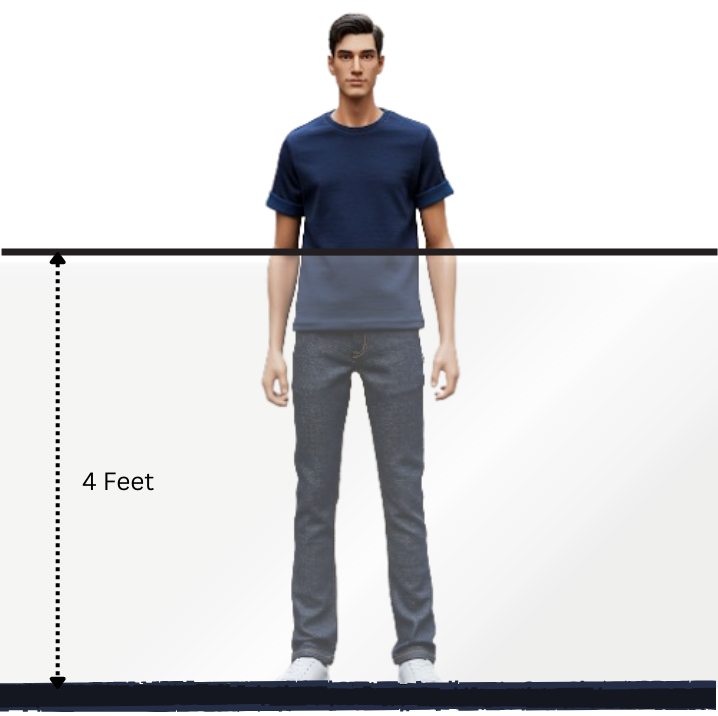
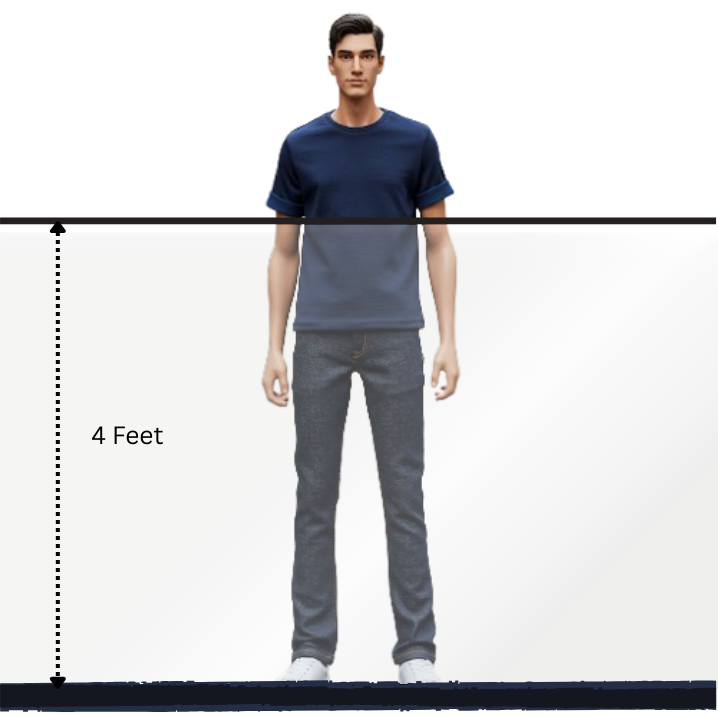
glass height fixing

Changed region(s): [[0.0, 0.2765, 1.0, 0.3994], [0.1226, 0.5838, 0.2451, 0.7067]]

diff --git a/src/components/Product_Selection/product-selection.tsx b/src/components/Product_Selection/product-selection.tsx
@@ -111,7 +111,7 @@ const ProductSelection: React.FC<ProductSelectionProps> = ({
     "2.5": "/images/GlassHeight/2.5full.png",
     "3": "/images/GlassHeight/3full.png",
     "3.25": "/images/GlassHeight/3.25full.png",
-    "3.5 (Standard)": "/images/GlassHeight/3.5full.png",
+    "3.5": "/images/GlassHeight/3.5full.png",
     "4": "/images/GlassHeight/4full.png",
   };
 
@@ -556,7 +556,7 @@ const ProductSelection: React.FC<ProductSelectionProps> = ({
                         transform: "translateY(50%)",
                       }}
                     >
-                      {height} {height === 3.5 ? "(Standard)" : ""} Feet
+                      {height} {height === 3.5 ? "Feet (Standard)" : "Feet"}
                     </button>
                   ))}
                 </div>

diff --git a/src/pages/FormDashboard/FormDashboard.tsx b/src/pages/FormDashboard/FormDashboard.tsx
@@ -683,7 +683,7 @@ function App() {
             Continue
           </button>
 
-          {/* {message && (
+          {message && (
             <div
               style={{
                 marginTop: "15px",
@@ -697,7 +697,7 @@ function App() {
             >
               {message}
             </div>
-          )} */}
+          )}
         </div>
       </div>
     );
